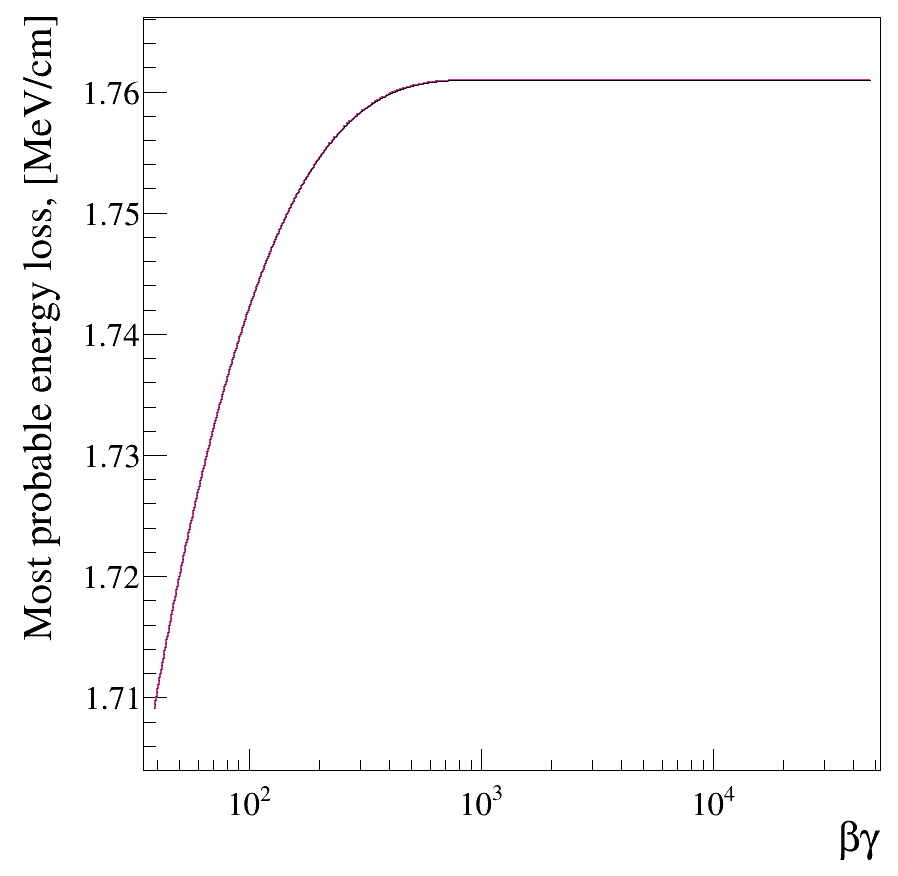
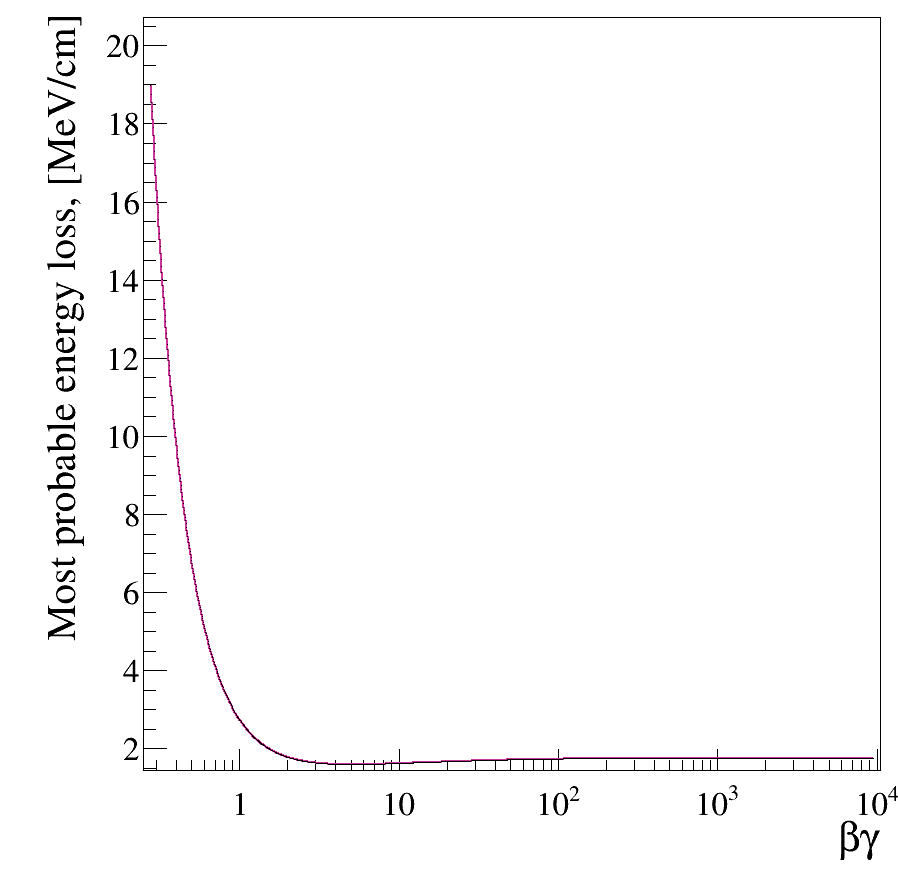
Made the ranges a little more broad but still GeV

diff --git a/python/mpvEnergyLoss.py b/python/mpvEnergyLoss.py
@@ -42,7 +42,8 @@ rho    = 1.3973       # argon density in g/cm^3
 
 # Now define the energy range to assess
 nbins     = 1000 # arbitrarily chosen
-EkVals    = array('d', np.logspace(3.602,6.699,nbins))   # Log10-spaced kinetic energies, 4 GeV -> 5000 GeV
+EkVals    = array('d', np.logspace(6e-1,6,nbins))   # Log10-spaced kinetic energies, 4 MeV -> 10000 GeV
+#EkVals    = array('d', np.logspace(3.602,6.699,nbins))   # Log10-spaced kinetic energies, 4 GeV -> 5000 GeV
 dxVals    = array('d', np.linspace(0.3,1,nbins)) # Linerly spaced pitch values from the DUNE FD distribution, 0.3 -> 1 cm
 
 # Get the momentum from the kinetic energy
